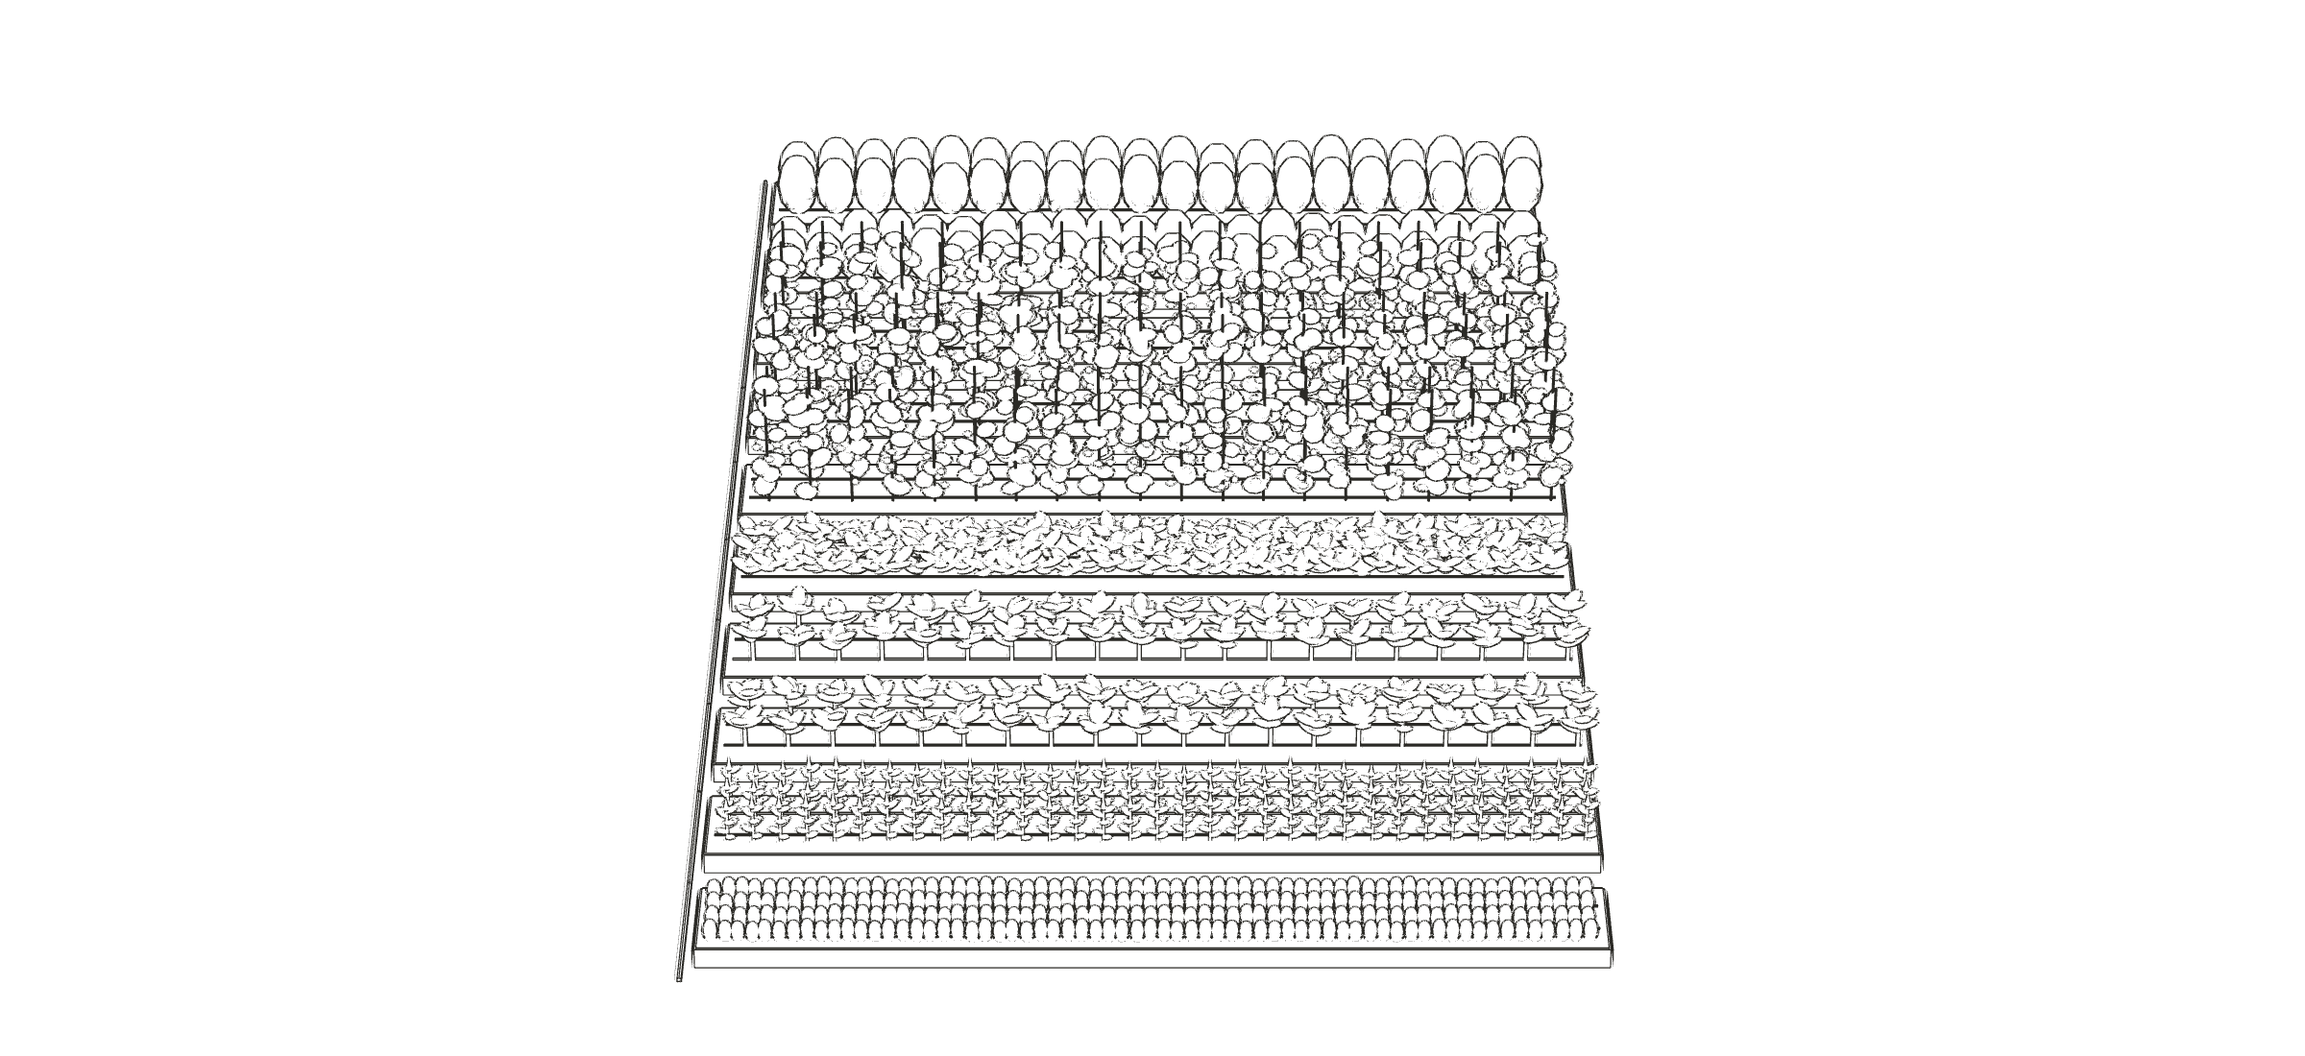
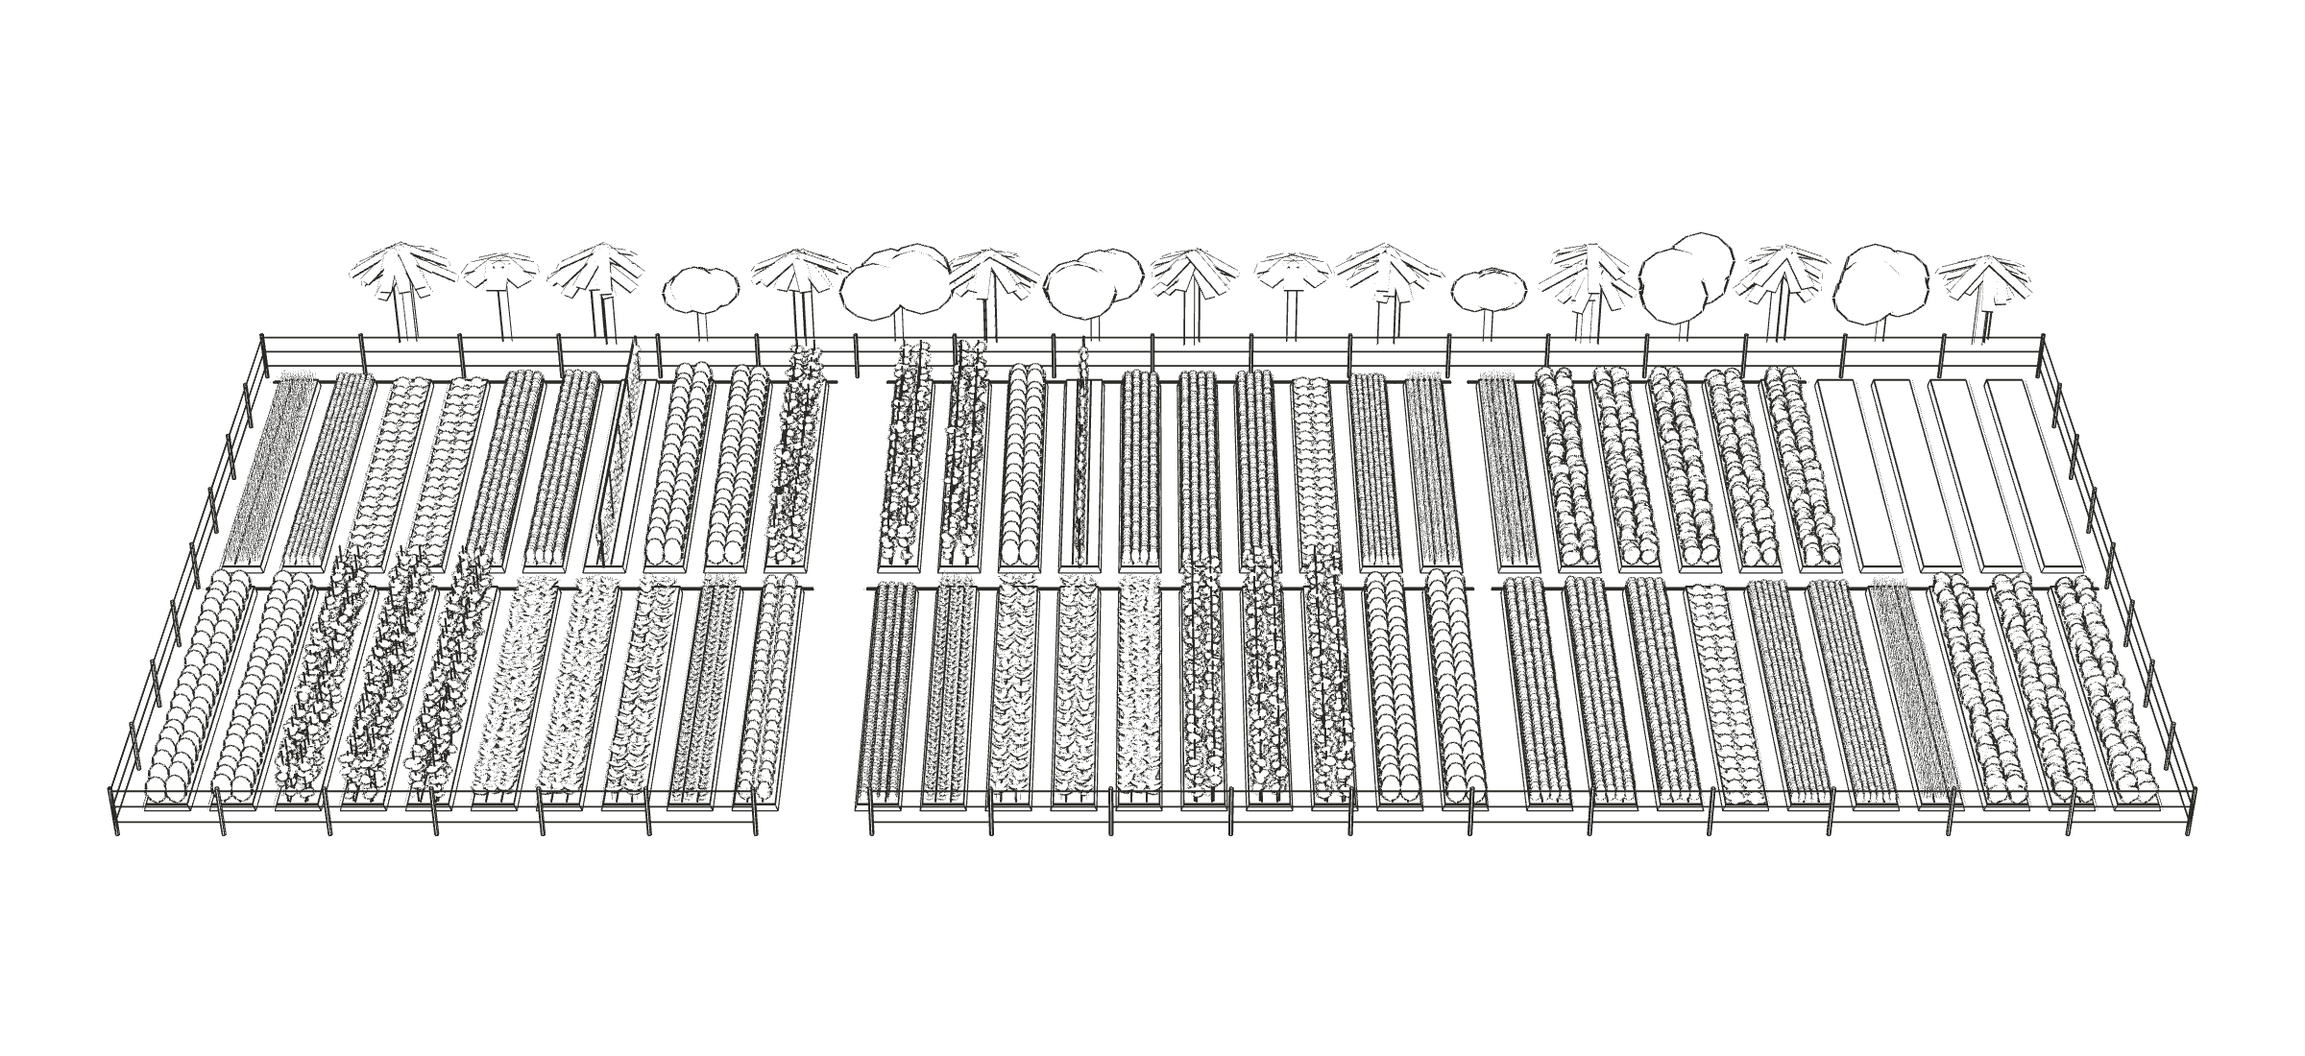
feat(farming): field and nursery 2D and 3D; the 3D draws the whole field; D-053
The founder asked to drop the FRUIT ROW label and the livestock section and to
make the 3D show the updated 2D. The page is hero, field 2D and 3D, nursery 2D
and 3D, then the rest; the field 3D draws all 60 beds, the fence and gate and
the fruit row from the gate end; the separate fruit view goes.

Claude-Session: https://claude.ai/code/session_01S6J7HfcfzMCDbDDKUuUjeQ

Changed region(s): [[0.0312, 0.1236, 0.9688, 0.9273]]

diff --git a/scripts/site/render/farming.html b/scripts/site/render/farming.html
@@ -43,6 +43,8 @@ import { OutputPass } from "three/addons/postprocessing/OutputPass.js"
 
 const Q = new URLSearchParams(location.search)
 const TOP = Q.get("top"), ITEM = Q.get("item"), HERO = Q.get("hero") === "1"
+// the 3D on the page: the whole field as the 2D draws it, its fence and gate and the fruit row behind (D-053)
+const FIELD = !TOP && !ITEM && !HERO
 const LINE = Q.get("mode") === "line"
 const P = await (await fetch(`/public/designs/farming/data/plan.json?${Date.now()}`)).json()
 const INK = "#2b2a26", PAGE = "#ffffff"
@@ -56,6 +58,10 @@ const towardMain = block.y < P.mainY // the main path below the block on the pla
 let beds = P.beds.filter((b) => b.block === block.id).map((b) => ({ ...b, z0: b.y - block.y, x0: 0 }))
 if (!towardMain) beds = beds.map((b) => ({ ...b, z0: block.h - (b.y - block.y) - b.h }))
 if (ITEM) beds = [{ id: ITEM, crop: ITEM, x0: 0, z0: 0, w: 10, h: 1.2 }]
+// the whole field in fence metres: x along the beds toward the gate, z across them
+const [fx0, fy0, fx1, fy1] = P.fence
+if (FIELD) beds = P.beds.map((b) => ({ ...b, x0: b.x - fx0, z0: b.y - fy0 }))
+const FL = fx1 - fx0, FWD = fy1 - fy0 // the fenced field: its length along the beds and its width
 const BW = ITEM ? 3 : 10, BH = ITEM ? 1.2 : block.h, H = 0.2 // an item shows 3 m of its bed, close enough to read the plants
 
 const [FW, FH] = TOP ? [2400, Math.round((2400 * (BW + 1.4)) / (BH + 1.4))] : HERO ? [2400, 1340] : [2400, 1100]
@@ -163,7 +169,10 @@ const BOX = new THREE.BoxGeometry(1, 1, 1)
 
 // ------------------------------------------------------------ the ground
 const M = 0.7 // ground past the block on each side
-if (!ITEM) {
+if (FIELD) { // the field's ground, from behind the fruit row to past the gate
+  if (REAL) T.path.repeat.set((FL + 5) / 3, (FWD + 1.4) / 3)
+  add(new THREE.PlaneGeometry(FL + 5, FWD + 1.4), "path", { pos: [FL / 2 - 1.8, 0, FWD / 2], rot: [-Math.PI / 2, 0, 0], edges: false })
+} else if (!ITEM) {
   if (REAL) { T.path.repeat.set((BW + 2 * M) / 3, (BH + 2 * M) / 3) }
   add(new THREE.PlaneGeometry(BW + 2 * M, BH + 2 * M), "path", { pos: [BW / 2, 0, BH / 2], rot: [-Math.PI / 2, 0, 0], edges: false })
   // no lawn round it: the block stands on the white page, as the studio's and the livestock yard's 3D; the stand-in
@@ -267,6 +276,40 @@ for (const b of beds) {
     put(BOX, "net", { pos: [b.x0 + BW / 2, H + 1.0, zc - 0.02], scale: [BW - 0.2, 1.2, 0.004], layer: "plants" })
   }
 }
+if (FIELD) {
+  // the fence: barked posts every 3 m and three wires, 1.5 m, the gate in the end toward the galley
+  const gz = P.gate[1] - fy0, gw = 1.5
+  const run = (x0, z0, x1, z1) => {
+    const len = Math.hypot(x1 - x0, z1 - z0), n = Math.max(1, Math.round(len / 3))
+    for (let k = 0; k <= n; k++) put(CYL, "stake", { pos: [x0 + ((x1 - x0) * k) / n, 0.75, z0 + ((z1 - z0) * k) / n], scale: [0.05, 1.5, 0.05], layer: "fence" })
+    const a = Math.atan2(z1 - z0, x1 - x0)
+    for (const y of [0.4, 0.9, 1.4]) put(CYL, "tape", { pos: [(x0 + x1) / 2, y, (z0 + z1) / 2], rot: [0, -a, Math.PI / 2], scale: [0.008, len, 0.008], layer: "fence" })
+  }
+  run(0, 0, FL, 0); run(0, FWD, FL, FWD); run(0, 0, 0, FWD)
+  run(FL, 0, FL, gz - gw); run(FL, gz + gw, FL, FWD)
+  // the fruit row behind the back fence: banana mats and trees, from the plan
+  for (const t of P.fruit) {
+    const x = t.x - fx0, z = t.y - fy0
+    if (t.kind === "banana") {
+      for (let s = 0; s < 3; s++) {
+        const sx = x + R() * 0.6, sz = z + R() * 0.6, h = 2.2 + rnd() * 0.8
+        put(CYL, "leaf", { pos: [sx, h / 2, sz], scale: [0.1, h, 0.1], colour: "#7d8a52", layer: "fruit" })
+        for (let l = 0; l < 6; l++) {
+          const a = (l / 6) * Math.PI * 2 + rnd(), ln = t.r * (0.9 + rnd() * 0.4)
+          put(BOX, "leaf", { pos: [sx + Math.cos(a) * ln * 0.45, h + 0.15, sz + Math.sin(a) * ln * 0.45], rot: [0, -a, -0.5], scale: [ln, 0.02, 0.34], colour: "#5f8f3a", layer: "fruit" })
+        }
+      }
+    } else if (t.kind === "papaya") {
+      put(CYL, "leaf", { pos: [x, 1.3, z], scale: [0.09, 2.6, 0.09], colour: "#6d5a48", layer: "fruit" })
+      for (let l = 0; l < 7; l++) { const a = (l / 7) * Math.PI * 2; put(BOX, "leaf", { pos: [x + Math.cos(a) * 0.55, 2.7, z + Math.sin(a) * 0.55], rot: [0, -a, -0.35], scale: [1.1, 0.02, 0.6], colour: "#6a9a3e", layer: "fruit" }) }
+      for (let f = 0; f < 5; f++) { const a = (f / 5) * Math.PI * 2; put(SPH, "fruit", { pos: [x + Math.cos(a) * 0.12, 2.35, z + Math.sin(a) * 0.12], scale: [0.13, 0.19, 0.13], colour: "#e09a3a", layer: "fruit" }) }
+    } else {
+      const col = { avocado: "#3f6b2e", mango: "#4a7a34", lemon: "#5b8a3a" }[t.kind]
+      put(CYL, "leaf", { pos: [x, 0.7, z], scale: [0.07, 1.4, 0.07], colour: "#6d5a48", layer: "fruit" })
+      for (let k = 0; k < 5; k++) put(SPH, "leaf", { pos: [x + R() * t.r, 1.1 + t.r * (0.5 + rnd() * 0.35), z + R() * t.r], scale: [t.r * 0.6, t.r * 0.5, t.r * 0.6], colour: col, layer: "fruit" })
+    }
+  }
+}
 flush()
 
 // ------------------------------------------------------------ camera
@@ -288,10 +331,11 @@ if (TOP) {
     beds: [...beds].sort((a, b) => b.z0 - a.z0).map((b) => [+((b.z0 + pad) / W).toFixed(5), +(pad / Hh).toFixed(5), +(b.h / W).toFixed(5), +(BW / Hh).toFixed(5)]),
   }
 } else {
-  const target = new THREE.Vector3(BW / 2, 0.3, BH / 2)
+  const target = FIELD ? new THREE.Vector3(FL / 2 - 1, 0.6, FWD / 2) : new THREE.Vector3(BW / 2, 0.3, BH / 2)
   // straight on from the main path, as the studio's and the livestock yard's 3D, from far off with a long lens
-  const [el, az, dist] = ITEM ? [THREE.MathUtils.degToRad(30), THREE.MathUtils.degToRad(-30), 9] : HERO ? [THREE.MathUtils.degToRad(32), THREE.MathUtils.degToRad(-22), 48] : [THREE.MathUtils.degToRad(34), 0, 70]
-  camera = new THREE.PerspectiveCamera(ITEM ? 30 : HERO ? 24 : 18, FW / FH, 0.5, 300)
+  // the whole field from its gate end, as the 2D sees it (the gate toward the viewer, the fruit row behind)
+  const [el, az, dist] = FIELD ? [THREE.MathUtils.degToRad(34), Math.PI / 2, 120] : ITEM ? [THREE.MathUtils.degToRad(30), THREE.MathUtils.degToRad(-30), 9] : HERO ? [THREE.MathUtils.degToRad(32), THREE.MathUtils.degToRad(-22), 48] : [THREE.MathUtils.degToRad(34), 0, 70]
+  camera = new THREE.PerspectiveCamera(ITEM ? 30 : HERO ? 24 : FIELD ? 16 : 18, FW / FH, 0.5, 400)
   camera.position.set(target.x + dist * Math.cos(el) * Math.sin(az), target.y + dist * Math.sin(el), target.z + dist * Math.cos(el) * Math.cos(az))
   camera.lookAt(target)
   camera.updateMatrixWorld(); camera.updateProjectionMatrix()
@@ -333,16 +377,16 @@ if (LINE) {
   const sun = new THREE.DirectionalLight(0xffe2b8, 3.0)
   // morning sun from the front left; straight down for the top view so no shadow crosses into a neighbour's piece
   sun.position.set(...(TOP ? [BW / 2 + 0.01, 30, BH / 2 + 0.01] : [-12, 10, BH + 10]))
-  sun.target.position.set(BW / 2, 0, BH / 2); scene.add(sun.target)
+  sun.target.position.set(FIELD ? FL / 2 : BW / 2, 0, FIELD ? FWD / 2 : BH / 2); scene.add(sun.target)
   sun.castShadow = true
   sun.shadow.mapSize.set(4096, 4096)
-  Object.assign(sun.shadow.camera, { left: -14, right: 14, top: 14, bottom: -14, near: 1, far: 80 })
+  Object.assign(sun.shadow.camera, FIELD ? { left: -34, right: 34, top: 34, bottom: -34, near: 1, far: 160 } : { left: -14, right: 14, top: 14, bottom: -14, near: 1, far: 80 })
   sun.shadow.bias = -0.0003; sun.shadow.normalBias = 0.02; sun.shadow.radius = 3
   scene.add(sun)
-  if (!TOP && !ITEM && !HERO) { // the white page round the block takes only the shadows
+  if (FIELD) { // the white page round the field takes only the shadows
     scene.background = new THREE.Color(12, 12, 12) // tone mapping would dim plain white to grey, so it starts brighter
     const ground = new THREE.Mesh(new THREE.PlaneGeometry(80, 80), new THREE.ShadowMaterial({ opacity: 0.14 }))
-    ground.rotation.x = -Math.PI / 2; ground.position.set(BW / 2, -0.012, BH / 2); ground.receiveShadow = true
+    ground.rotation.x = -Math.PI / 2; ground.position.set(FL / 2, -0.012, FWD / 2); ground.receiveShadow = true
     scene.add(ground)
   }
   const composer = new EffectComposer(renderer)

diff --git a/src/app/en/farming/page.tsx b/src/app/en/farming/page.tsx
@@ -7,7 +7,6 @@ import { BuildUp } from "@/components/docs/build-up"
 import { ItemRail, type RailItem } from "@/components/docs/item-rail"
 import { FarmingPlan } from "@/components/farming/farming-plan"
 import { NurseryPlan } from "@/components/farming/nursery-plan"
-import { LivestockPlan } from "@/components/livestock/livestock-plan"
 import plan from "../../../../public/designs/farming/data/plan.json"
 import topPieces from "../../../../public/designs/farming/render/top-pieces.json"
 
@@ -62,6 +61,16 @@ export default function FarmingPage() {
           className="h-auto w-full" />
       </DrawingSection>
 
+
+
+
+      {/* 3D, in the 2D section's pattern: the whole field from its gate end, as the 2D draws it, with its fence and the
+          fruit row behind, as a line drawing, then rendered. Both from scripts/site/render/farming.html (D-053). */}
+      <ModelSection line={`${D}/render/field-line.png`} real={`${D}/render/field-real.webp`} width={2400} height={1100}
+        caption={<>Rendered from the design model: the field as it starts, one season, the fruit row behind</>}
+        lineAlt="Line drawing of the whole field from its gate end: two rows of blocks of raised beds either side of the main path, each bed planted with its crop or resting, the wire fence on barked posts with the gate in front, and the fruit row of banana mats and fruit trees behind the back fence."
+        realAlt="The same view rendered on the white page: dark beds of tomatoes, beans, cabbages, kale, amaranth, onions, carrots, potatoes and the rest on sandy paths, four resting beds, the fence, and behind it bananas, avocado, mango, lemon and papaya." />
+
       {/* The seedling nursery, in the 2D's pattern: the shade-net house in the yard where the field's seedlings start,
           its benches of trays and its door toward the field (src/components/farming/nursery-plan.tsx). */}
       <DrawingSection id="nursery" title="Nursery">
@@ -69,40 +78,10 @@ export default function FarmingPage() {
           className="h-auto w-full lg:h-full lg:w-auto" />
       </DrawingSection>
 
-
-      {/* Livestock: the homepage's 2D shows half the field and sends "the whole farm" here (D-035), so the farm's
-          other land use is drawn here too, the house's plan from /en/livestock, with a link to its page. */}
-      <section id="livestock">
-        <div className="flex flex-col px-4 pt-10 pb-6 md:px-10 lg:h-svh lg:min-h-[560px]">
-          <div className="flex flex-wrap items-baseline justify-between gap-4">
-            <h2 className="text-3xl font-semibold tracking-tight">Livestock</h2>
-            <Link href="/en/livestock" className="text-sm underline underline-offset-4">The livestock page</Link>
-          </div>
-          <p className="text-muted-foreground mt-3 max-w-2xl">Six goats and four sheep share a village yard with cats and doves, beyond the field: their litter goes to the compost bays and back to these beds.</p>
-          <div className="mt-6 flex min-h-0 flex-1 items-center justify-center">
-            <LivestockPlan title="Plan of the livestock yard: one outline round the herd’s thatched shed, one village yard for the herd, the cats, the doves and the guests, three compost bays and the guard dogs’ run."
-              className="h-auto w-full lg:h-full lg:w-auto" />
-          </div>
-        </div>
-      </section>
-
-      {/* 3D, in the 2D section's pattern: the block by the gate from the main path as a line drawing, then
-          rendered. Both from scripts/site/render/farming.html. */}
-      <ModelSection line={`${D}/render/field-line.png`} real={`${D}/render/field-real.webp`} width={2400} height={1100}
-        caption={<>Rendered from the design model: the block by the gate, one season</>}
-        lineAlt="Line drawing of one block of ten raised beds seen straight on from the main path: two drip lines along each bed, herbs in the nearest bed, then amaranth, spinach and kale, and tomatoes on stakes at the back."
-        realAlt="The same block rendered on the white page: red-brown beds with dark compost, black drip tape, herbs, wine-red amaranth, spinach, kale and staked tomatoes with red and yellow fruit, on a sandy path." />
-
       <ModelSection id="nursery-3d" title="Nursery 3D" line={`${D}/render/nursery-line.png`} real={`${D}/render/nursery-real.webp`} width={2400} height={1100}
         lineAlt="Line drawing of the seedling nursery seen level from the front with its front and roof off: eucalyptus poles every 2 m along the back under a flat frame, two waist-high benches of seedling trays, the door frame at the right end and a tap by it."
         realAlt="The same view rendered: eucalyptus poles, grey-green shade net at the back and the ends, timber benches holding black trays of green seedlings, and a steel tap by the door." />
 
-      {/* The fruit row behind the field's back fence (D-052): banana mats between grafted avocado, mango, lemon and papaya
-          trees, 3 m apart, in the field 2D's pattern (scripts/site/render/farm-extras.html?view=fruit). */}
-      <ModelSection id="fruit" title="Fruit" line={`${D}/render/fruit-line.png`} real={`${D}/render/fruit-real.webp`} width={2400} height={760}
-        caption={<>One turn of the fruit row behind the field&rsquo;s back fence, 3 m apart: banana, avocado, banana, mango, banana, lemon, banana, papaya</>}
-        lineAlt="Line drawing of a stretch of the fruit row in front of the field's wire fence: banana mats of three stems with arching leaves, between a young avocado, a mango, a lemon and a papaya."
-        realAlt="The same view rendered: green banana mats with bunches, round dark-green avocado and mango crowns, a smaller lemon tree with yellow fruit and a papaya with orange fruit under its leaves." />
 
       {/* Field, pinned while one block builds up in fast motion, seen from above: the bare ground, the raised
           beds, the compost, the drip lines, the planting. Renders: farming.html?top=<layer>. */}

diff --git a/src/lib/design-blur.generated.ts b/src/lib/design-blur.generated.ts
@@ -6,8 +6,7 @@ export const DESIGN_BLUR: Record<string, string> = {
[9 lines of base64/hex data omitted]

diff --git a/src/components/farming/farming-plan.tsx b/src/components/farming/farming-plan.tsx
@@ -12,7 +12,6 @@ const line = { fill: "none", stroke: "currentColor", strokeWidth: 0.9, vectorEff
 const dashed = { ...line, strokeDasharray: "4 3" } as const
 const solid = { fill: "currentColor" } as const
 const font = { fontFamily: "Helvetica, Arial, sans-serif", fill: "currentColor" } as const
-const label = { ...font, fontSize: 1.25, fontWeight: 700, letterSpacing: "0.03em" } as const
 const small = { ...font, fontSize: 0.95 } as const
 
 const f = (n: number) => +n.toFixed(3)
@@ -97,7 +96,6 @@ export function FarmingPlan({ title, className }: { title: string; className?: s
       <line x1={f(pu + main / 2)} x2={f(pu + main / 2)} y1={f(H)} y2={f(H + 2.4)} {...line} />
 
       {/* What is where, in one row above, as the studio's BED, SEATING, GALLEY, BATH; the nursery up the yard */}
-      <text x={0} y={f(row)} style={label}>FRUIT ROW</text>
       <text x={f(W)} y={f(row)} textAnchor="end" style={small}>NURSERY ↑</text>
       <text x={f(pu)} y={f(H + 3.6)} textAnchor="middle" style={small}>GATE · TO THE GALLEY</text>
 

diff --git a/study/execution/decision-log.md b/study/execution/decision-log.md
@@ -189,3 +189,6 @@ Context: the founder asked to plant potato, tomato, onion, banana, chilli "and o
 
 **D-053 · 2026-10-29 · The studio's water heater becomes a small 5.5 kW instant box in the shower, for the shower only; the inlet goes from 32 A to 63 A.**
 Context: the founder asked for "a smaller box heater", showing a photo of a tankless shower heater (a white box with a digital display, a hand shower on its hose). D-024's 30 L tank (450 x 450 x 300 mm, 2 kW) is replaced. The founder chose, from these options: 5.5 kW (recommended) over 3.5 kW (about 2.5 L/min, a weak shower) or 3.5 kW with the AC locked out during a shower; and the shower only (recommended) over the box feeding every hot tap through the old pipes. Decision: a 5.5 kW instant heater, about 200 x 330 x 90 mm, IPX4, on end wall B inside the shower between the slide rail and the glass, its display about 1.3 m up; cold rises in the wall to its foot (W2), hot leaves its top through the hand shower's hose (H1). It heats about 4 L/min by 20 C [E, AS-18], so the shower never runs out. The sink and the basin are cold; the mixing valve, the hot runs to the sink (H1, H2), the mixed runs (T1, T2) and the T&P valve go, and the thermostatic bar valve and fixed head become a slide rail and the hand shower. Electrical: C5 becomes 23.9 A on a B25 RCBO and 6 mm2 cable (a B32 would exceed the cable's 32.0 A in the foam-filled wall); the DP switch and timer become a DP isolator on the galley side; the priority relay still sheds the heater and the AC while the hob runs, through a 40 A contactor (was 25 A). Maximum demand rises from 30.0 A to 45.3 A [E, AS-19], so the inlet, main breaker and plug go to 63 A with 16 mm2 tails; the site needs a 63 A feeder per studio, and the farm's peak estimate rises to about 45 kW (power guide). Consequence: the BOM prices the heater at RWF 90,000 and the rail at RWF 30,000 [A, AS-21, not quoted]; the plumbing and electrical 3D, the item cards, the water diagram, the bathroom guide drawing, and the plumber's, electrician's and power guides (with their Kinyarwanda twins) are redrawn. Revisit: if the measured cold water is well below 20 C, or a 63 A supply is hard to give a studio (then 3.5 kW with the AC locked out keeps 32 A).
+
+**D-053 · 2026-10-29 · /en/farming: hero, then the field's 2D and 3D, then the nursery's 2D and 3D; livestock and the separate fruit view leave the page.**
+Context: the founder asked to remove the 2D's "FRUIT ROW" label, to take the livestock section off (it has its own page) and to refactor the 3D to show the updated 2D. Decision: the page opens on the hero, the field's 2D and 3D, then the nursery's 2D and 3D; the field build-up, the crops, the galley's needs, the calendar, the water and the bill of materials follow, kept at the founder's choice. The livestock section (D-035) is gone; /en/livestock has it. The field's 3D (`scripts/site/render/farming.html`, its default view) now draws the whole field as the 2D does, from the gate end: the two rows of blocks with every bed's crop or rest, the main path, the wire fence on barked posts with the gate, and the fruit row of D-052 behind the back fence; the separate Fruit section and its renders are removed. The block-only views (the stand-in hero, the build-up layers, the crop cards) are unchanged.
